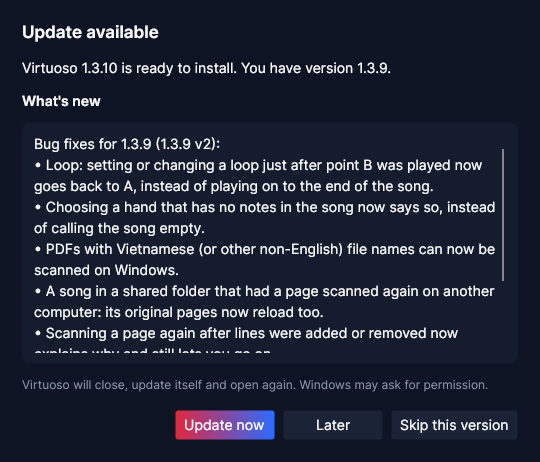
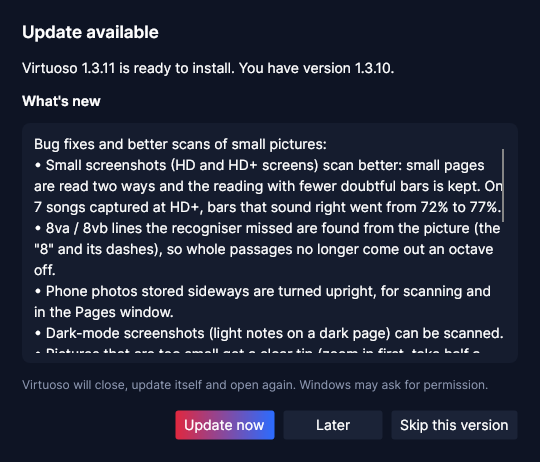
Add files via upload

Changed region(s): [[0.0593, 0.303, 0.9481, 0.7879], [0.2074, 0.1212, 0.7407, 0.1818]]

diff --git a/README.md b/README.md
@@ -119,7 +119,7 @@ Right-click a line in the sheet editor and choose **Play from this line** to sta
 The first scan downloads the scanner once (about 69 MB, plus 23 MB to read titles and tempo marks). It is [Audiveris](https://github.com/Audiveris/audiveris), free open-source music recognition, and everything runs on your computer — no pages are uploaded anywhere.
 
 > [!TIP]
-> Results are best with clean, straight pages of printed piano music: a full-width screenshot or a PDF works better than a photo taken at an angle. Notes usually come out right; the rhythm can still be off in a few bars. D.S., D.C., To Coda, Fine and the segno/coda signs are read, and the song is written out in playing order (a note at the top of the sheet says what was found). 8va lines are followed to their end, and tempo marks printed later in the song (and rit. / accel. / a tempo) change the tempo there. PDFs are turned into one picture per page, so everything above works for them too.
+> Results are best with clean, straight pages of printed piano music: a full-width screenshot or a PDF works better than a photo taken at an angle. On a small screen (HD / HD+), zoom the sheet in or take half a page at a time — small pictures are read twice to keep the clearer reading, but bigger ones still read best. Notes usually come out right; the rhythm can still be off in a few bars. D.S., D.C., To Coda, Fine and the segno/coda signs are read, and the song is written out in playing order (a note at the top of the sheet says what was found). 8va lines are followed to their end, and tempo marks printed later in the song (and rit. / accel. / a tempo) change the tempo there. PDFs are turned into one picture per page, so everything above works for them too.
 
 ## 🤝 Sharing songs with a friend
 
@@ -231,6 +231,14 @@ In `%AppData%\Virtuoso\Songs`. Click **Open folder** in the app to go there. Uni
 Virtuoso does not collect or send any personal data. The only internet access is the update check, which downloads release information from this page, and — only when you scan sheet music for the first time — the download of the scanner from this page. Scanning itself runs entirely on your computer.
 
 ## 📝 Changelog
+
+**1.3.11** — small screenshots scan better, bug fixes
+- Small screenshots (HD and HD+ screens) scan better: small pages are read two ways and the reading with fewer doubtful bars is kept. On 7 songs captured at HD+, bars that sound right went from 72% to 77%.
+- 8va / 8vb lines the recogniser missed are found from the picture, so whole passages no longer come out an octave off.
+- Phone photos stored sideways are turned upright; dark-mode screenshots (light notes on a dark page) can be scanned; pictures that are too small get a clear tip.
+- "New song" no longer keeps the previous song's loop, pages and marks. Search ignores accents ("con co" finds "Con Cò").
+- Songs titled "Con", "Aux", "Nul"… can be saved on Windows. Deleting "Song.mid" no longer deletes the scanned pages of "Song.txt" beside it. Stray files in a shared folder (Thumbs.db…) are no longer taken for pages.
+- Damaged MIDI and MusicXML files no longer freeze the app; "timewise" MusicXML opens; linking a whole drive (D:\) works.
 
 **1.3.10** — bug fixes for 1.3.9 ("1.3.9 v2")
 - Loop: setting or changing a loop just after point B was played now goes back to A instead of playing on to the end.
